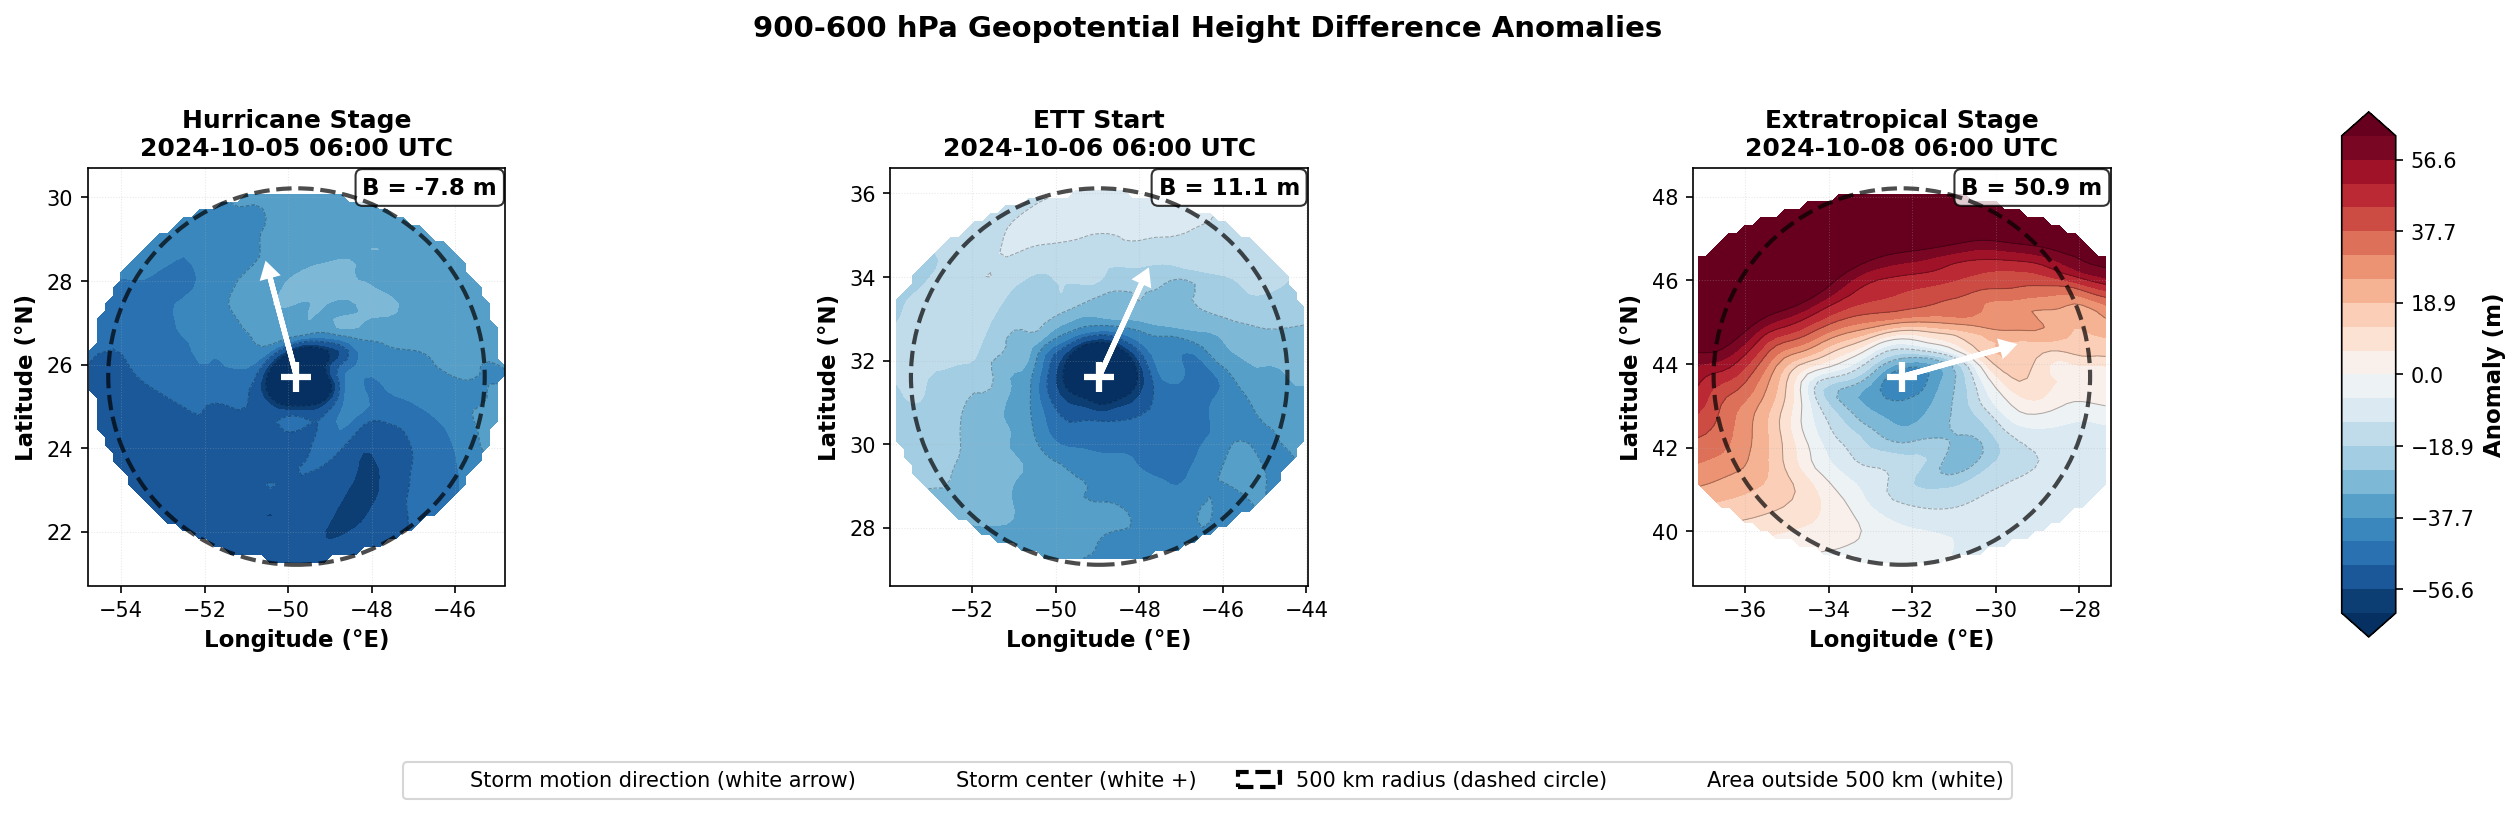
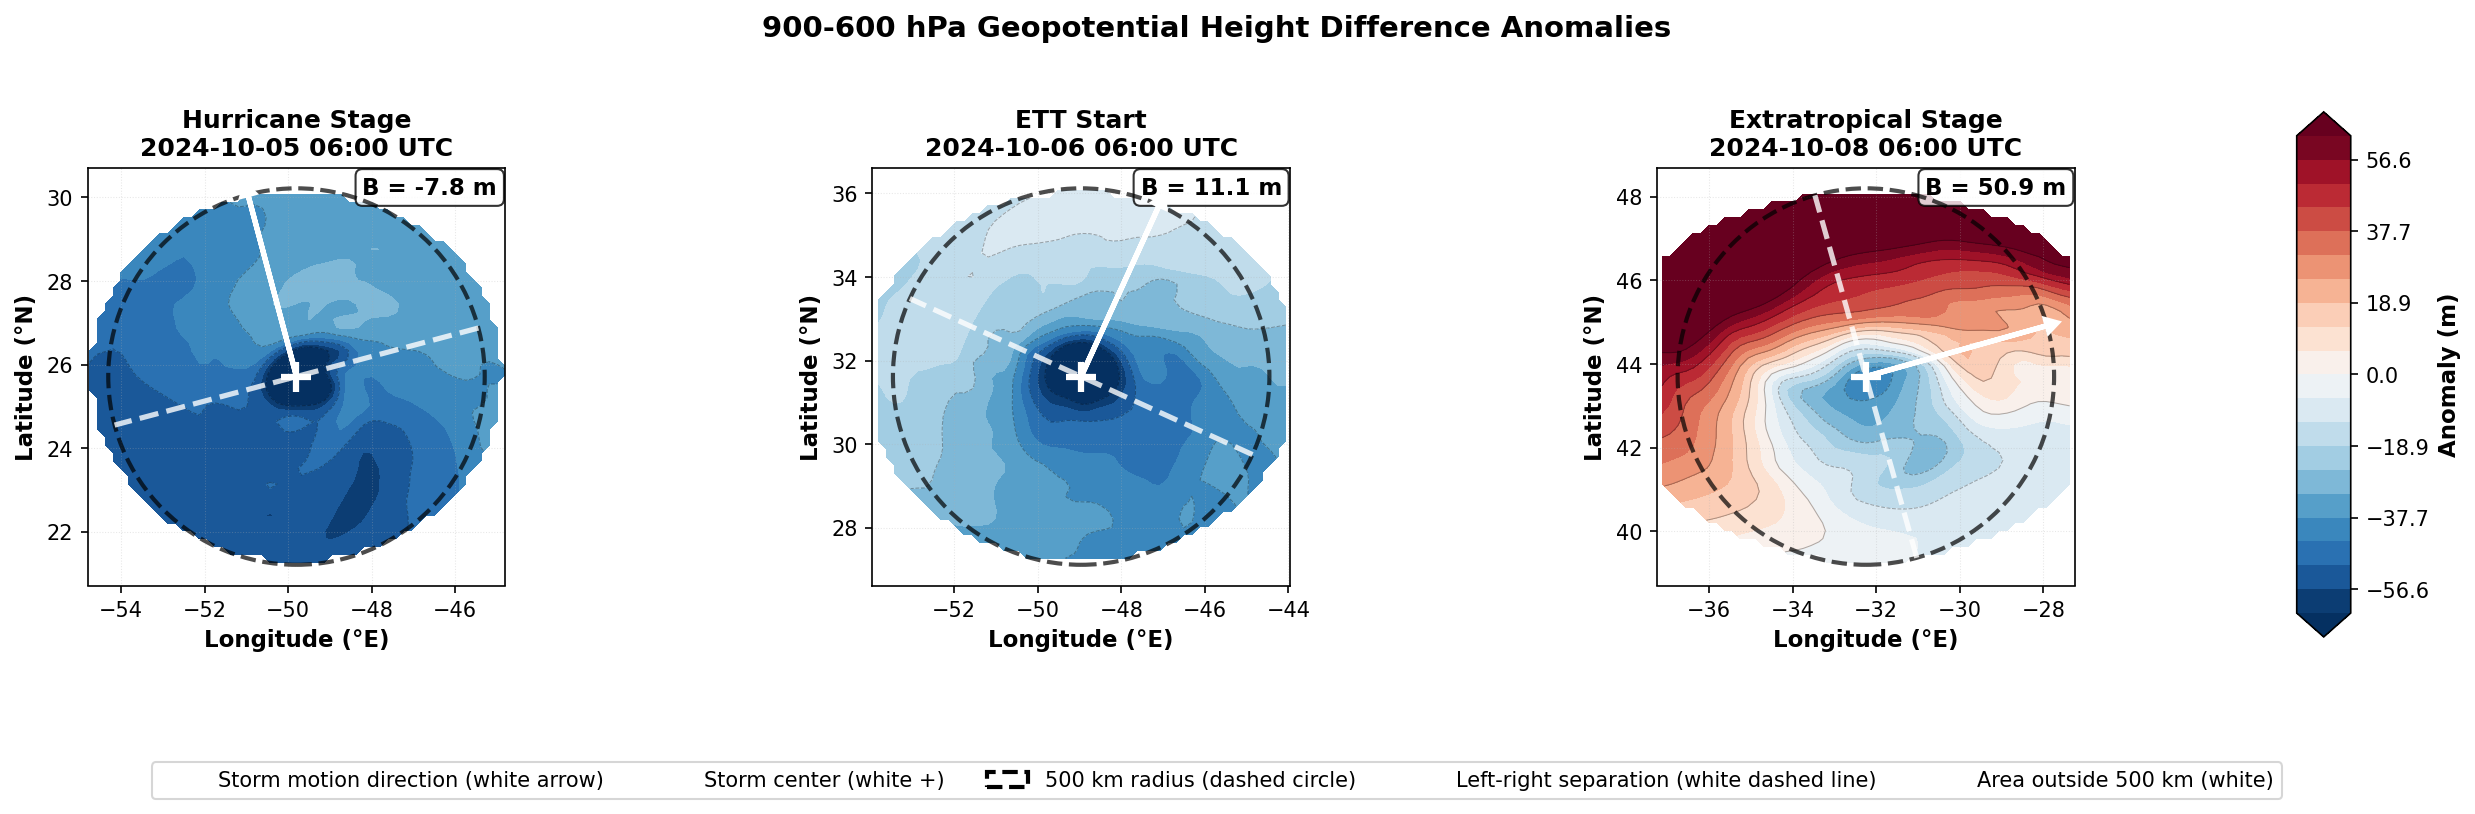
Enhance geopotential anomaly visualization: extended arrow to 500 km circle
- Extended storm translation direction arrow to reach the 500 km analysis circle
- Added white dashed perpendicular line to represent left-right separation for B calculation
- Tightened plot layout: adjusted tight_layout rect and colorbar positioning for closer subplots
- Updated legend to explain both directional lines (motion arrow and left-right separation)
- Improved spacing efficiency for publication-quality figures

diff --git a/scripts/plot_geopotential_anomalies.py b/scripts/plot_geopotential_anomalies.py
@@ -243,11 +243,21 @@ def plot_geopotential_comparison():
                               edgecolor='black', linewidth=2, linestyle='--', alpha=0.7, zorder=50)
         ax.add_patch(circle_outline)
         
-        # Storm translation direction
+        # Storm translation direction - extend arrow to 500 km circle
         dlat_vel, dlon_vel = get_storm_velocity(track_ds, params['timestamp'])
-        arrow_scale = 2.5
-        ax.arrow(lon_center, lat_center, dlon_vel * arrow_scale, dlat_vel * arrow_scale,
+        # Calculate arrow length to reach 500 km circle (convert to degrees, ~111 km per degree)
+        arrow_length_deg = 500.0 / 111.0
+        ax.arrow(lon_center, lat_center, dlon_vel * arrow_length_deg, dlat_vel * arrow_length_deg,
                 head_width=0.3, head_length=0.25, fc='white', ec='white', linewidth=2.5, zorder=100)
+        
+        # Perpendicular dashed line (left-right separation for B calculation)
+        # Perpendicular direction is (-dlon_vel, dlat_vel) rotated 90 degrees
+        perp_dlon = -dlat_vel
+        perp_dlat = dlon_vel
+        perp_length_deg = 500.0 / 111.0
+        ax.plot([lon_center - perp_dlon * perp_length_deg, lon_center + perp_dlon * perp_length_deg],
+               [lat_center - perp_dlat * perp_length_deg, lat_center + perp_dlat * perp_length_deg],
+               'w--', linewidth=2.5, alpha=0.8, zorder=99)
         
         # Storm center
         ax.plot(lon_center, lat_center, 'w+', markersize=14, markeredgewidth=3, zorder=101)
@@ -276,7 +286,7 @@ def plot_geopotential_comparison():
         cf_list.append(cf)
     
     # Single colorbar
-    cbar_ax = fig.add_axes([0.92, 0.15, 0.02, 0.7])
+    cbar_ax = fig.add_axes([0.90, 0.15, 0.02, 0.7])
     cbar = plt.colorbar(cf_list[0], cax=cbar_ax, orientation='vertical')
     cbar.set_label('Anomaly (m)', fontsize=11, fontweight='bold')
     
@@ -288,12 +298,14 @@ def plot_geopotential_comparison():
                   markeredgewidth=3, label='Storm center (white +)'),
         mpatches.Patch(facecolor='none', edgecolor='black', linewidth=2, linestyle='--', 
                       label='500 km radius (dashed circle)'),
+        plt.Line2D([0], [0], color='white', linewidth=2.5, linestyle='--', 
+                  label='Left-right separation (white dashed line)'),
         mpatches.Patch(facecolor='white', edgecolor='none', label='Area outside 500 km (white)'),
     ]
-    fig.legend(handles=legend_elements, loc='lower center', ncol=4, fontsize=10, 
+    fig.legend(handles=legend_elements, loc='lower center', ncol=5, fontsize=10, 
               bbox_to_anchor=(0.5, -0.08))
     
-    plt.tight_layout(rect=[0, 0.1, 0.9, 0.96])
+    plt.tight_layout(rect=[0, 0.1, 0.88, 0.96])
     
     outfile = '/users/jfkarhu/Numlab/hurricane_kirk/plots/geopotential_anomalies_comparison.png'
     plt.savefig(outfile, dpi=150, bbox_inches='tight')
